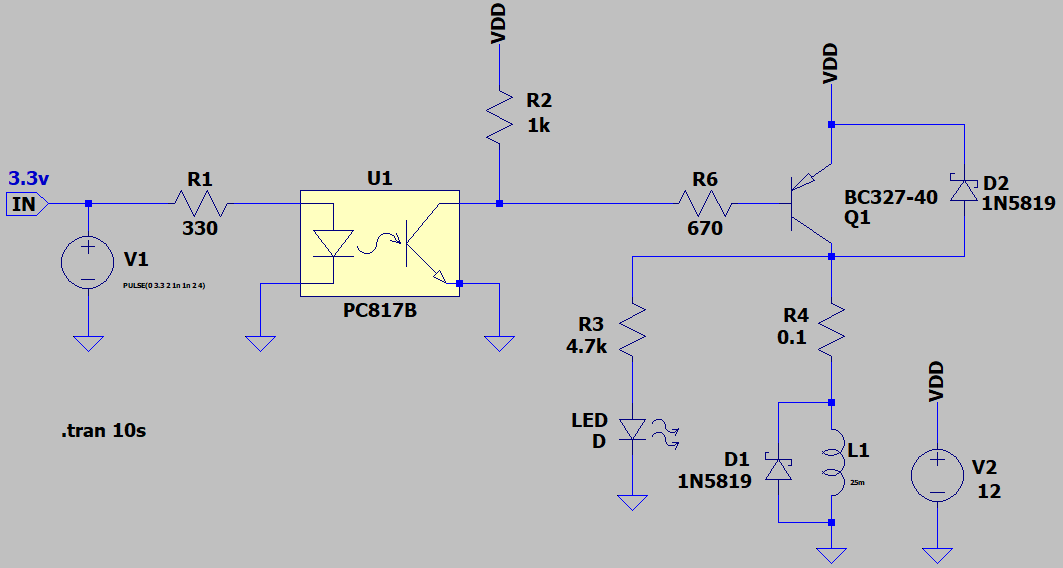
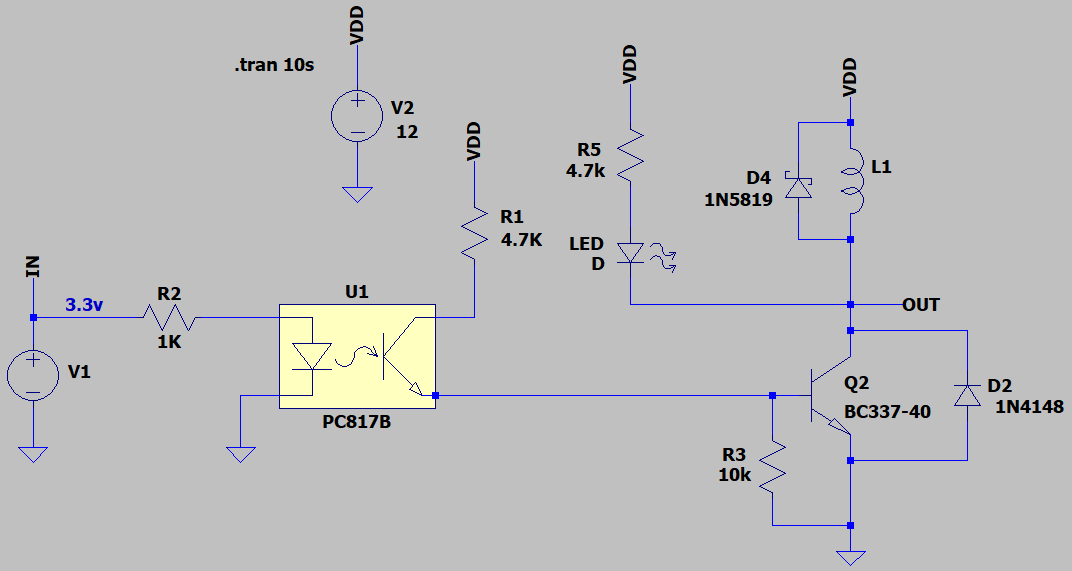
Update

diff --git a/Relay_CoilDriver_Isolated/README.md b/Relay_CoilDriver_Isolated/README.md
@@ -1,6 +1,6 @@
 ## Isolated Relay Driver Using Optocoupler
 
-### Features, v2.0
+### Features, v2.1
 - **Isolation Type:** Opto
 - **Isolation IC:** PC817
 - **Display Type:** LED
@@ -8,11 +8,11 @@
 - **Active Level:** High
 
 ### Simulate
-v2.0, Schematic  
-![](Simulate/v2.0_Schematic.png)
+v2.1, Schematic  
+![](Simulate/v2.1_Schematic.png)
 
-v2.0, Plot  
-![](Simulate/v2.0_Plot.png)
+v2.1, Plot  
+![](Simulate/v2.1_Plot.png)
 
 ### More Information
 **Note**: [You can go here to download a single folder or file from GitHub.com](https://minhaskamal.github.io/DownGit/#/home)  

diff --git a/Relay_CoilDriver_Isolated/Simulate/ReadMe.md b/Relay_CoilDriver_Isolated/Simulate/ReadMe.md
@@ -1,4 +1,7 @@
-### v1.1.asc
+### v2.0.asc
+- Saved in **LTspice Version 24.1.10**
+
+### v1.0.asc
 - Saved in **LTspice Version 24.1.10**
 
 
